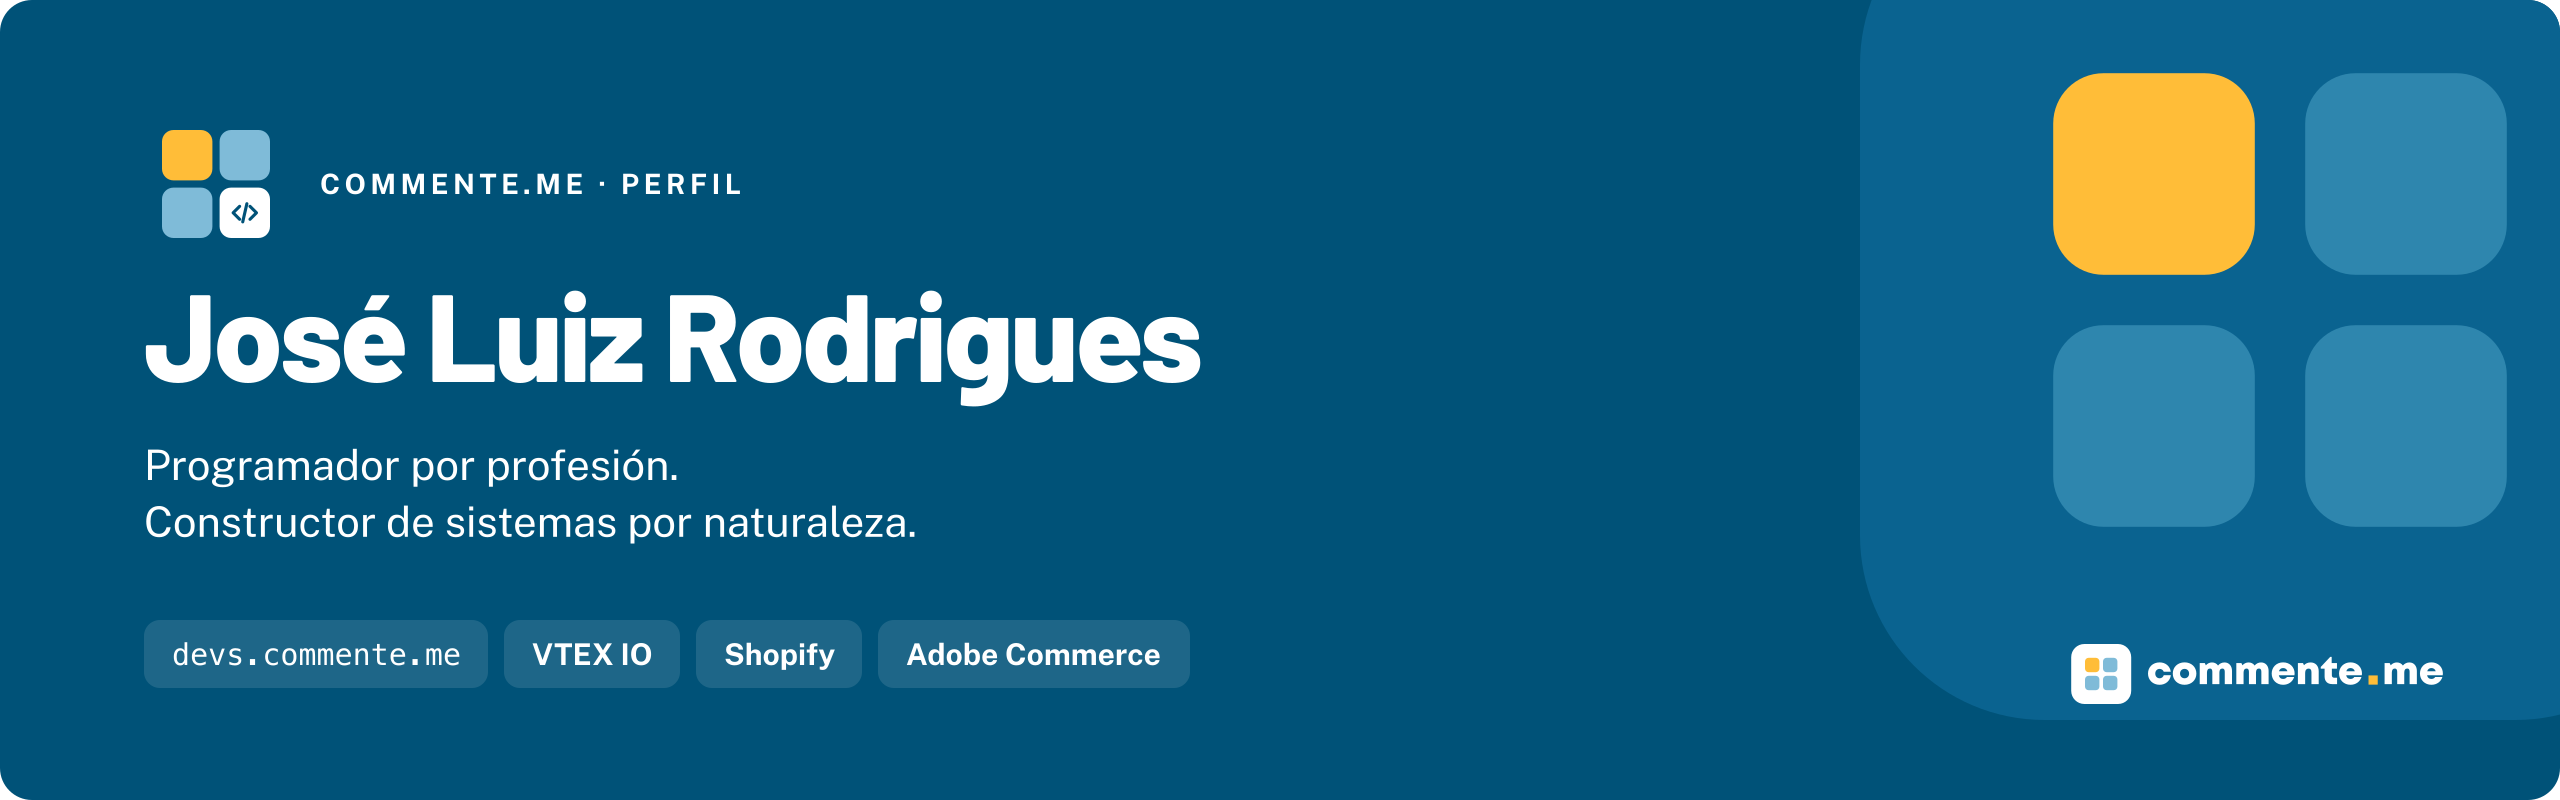
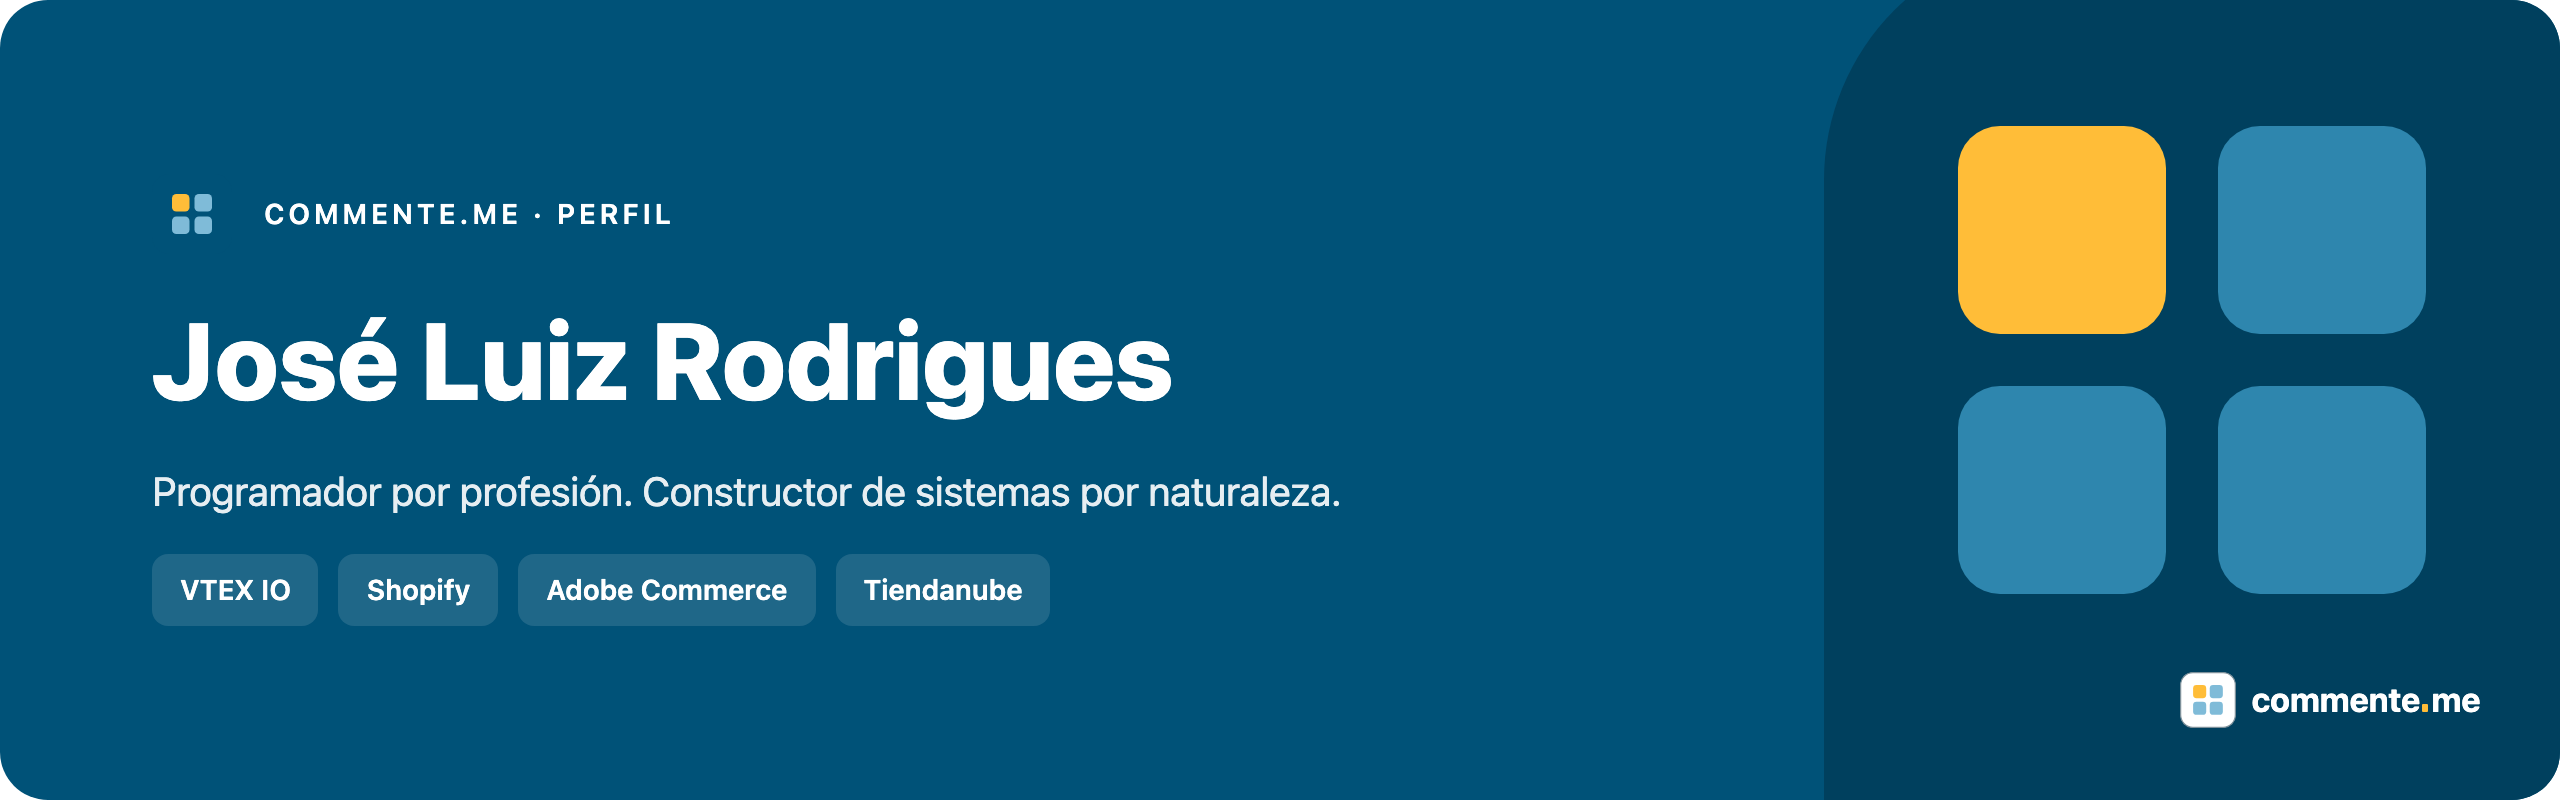
docs: perfil no Atacama 2.0
Banner novo, integram.me como produto, Atacama Theme no lugar do
Dante Theme, os produtos públicos para devs com link e sem
devs.commente.me, que não existe mais.

diff --git a/README.md b/README.md
@@ -1,35 +1,36 @@
-<p align="center">
-  <img src="assets/banner.png" width="100%" alt="José Luiz Rodrigues · Programador por profesión. Constructor de sistemas por naturaleza.">
-</p>
+![José Luiz Rodrigues · Programador por profesión. Constructor de sistemas por naturaleza.](assets/banner.png)
 
 # José Luiz Rodrigues
 
-**Socio de commente.me. Desarrollo para ecommerce en VTEX, Shopify y Adobe Commerce desde Santiago.**
+**Socio de commente.me. Desarrollo para ecommerce en VTEX, Shopify, Adobe Commerce y Tiendanube desde Santiago.**
 
-![followers](https://img.shields.io/github/followers/zeluizr?labelColor=005278&color=FFBD38)
+[![followers](https://badgen.net/github/followers/zeluizr?color=005278)](https://github.com/zeluizr?tab=followers)
 
 ## Que hago
 
 - Trabajo con VTEX hace mas de 15 años: Store Framework, VTEX IO, integraciones y checkout.
-- Construyo la plataforma de [commente.me](https://www.commente.me): PIM, OMS, ERP, ventas, clientes y Dante, el asistente.
+- Dirijo con Sandra Cantelle [commente.me](https://www.commente.me), la agencia.
+- Construyo [integram.me](https://www.integram.me), el producto para integrar la tienda en todo: PIM, OMS, ERP, Email marketing, Reportes y Dante, el asistente. Los links cortos salen de [smlk.me](https://www.smlk.me).
 - Enseño VTEX en los cursos del canal: cada concepto con una tienda de ejemplo.
 
 ## Para devs
 
-Lo que publicamos para quien construye tiendas, en [devs.commente.me](https://devs.commente.me):
+Lo que publicamos abierto y sin costo para quien construye tiendas:
 
 | producto | para que sirve |
 |---|---|
-| Snippets for VTEX IO | bloques, React y Node en VS Code |
-| Snippets for Shopify | Liquid y secciones en VS Code |
-| Snippets for Adobe Commerce | módulos y layout en VS Code |
-| App for Shopify | la tienda conectada a commente.me |
-| commente CLI | tareas del día a día desde la terminal |
-| Dante Theme | tema para VS Code, Chrome y Warp |
+| [Snippets for VTEX IO](https://github.com/commentemeapp/vtex-io-snippets) | bloques, props y CSS de Store Framework en VS Code |
+| [Snippets for Shopify](https://github.com/commentemeapp/shopify-snippets) | Liquid y el `{% schema %}` de los temas en VS Code |
+| [Snippets for Adobe Commerce](https://github.com/commentemeapp/adobe-commerce-snippets) | XML, PHP y layout de módulos en VS Code |
+| [Snippets for Tiendanube](https://github.com/commentemeapp/tiendanube-snippets) | Twig y el `{% schema %}` de los temas en VS Code |
+| Servidores MCP | [vtex-io-mcp](https://github.com/commentemeapp/vtex-io-mcp), [adobe-commerce-mcp](https://github.com/commentemeapp/adobe-commerce-mcp) y [tiendanube-mcp](https://github.com/commentemeapp/tiendanube-mcp), en npm |
+| Plugins de Claude Code | subagentes para [VTEX IO](https://github.com/commentemeapp/vtex-io-agents), [Shopify](https://github.com/commentemeapp/shopify-agents), [Adobe Commerce](https://github.com/commentemeapp/adobe-commerce-agents), [Tiendanube](https://github.com/commentemeapp/tiendanube-agents) y [migraciones VTEX](https://github.com/commentemeapp/vtex-migration-agents) |
+| Skills de agente | reglas con la documentación oficial de [Adobe Commerce](https://github.com/commentemeapp/adobe-commerce-skills) y [Tiendanube](https://github.com/commentemeapp/tiendanube-skills) |
+| [Atacama Theme](https://github.com/commentemeapp/atacama-theme) | Atacama Noche, Día y Azul para VS Code, terminales y Chrome |
 
 ## Con que trabajo
 
-TypeScript, React, Node, GraphQL, VTEX IO, Shopify, Adobe Commerce, Postgres y Railway.
+TypeScript, React, Node, GraphQL, VTEX IO, Shopify, Adobe Commerce, Tiendanube, Postgres y Railway.
 
 ## Contacto
 
